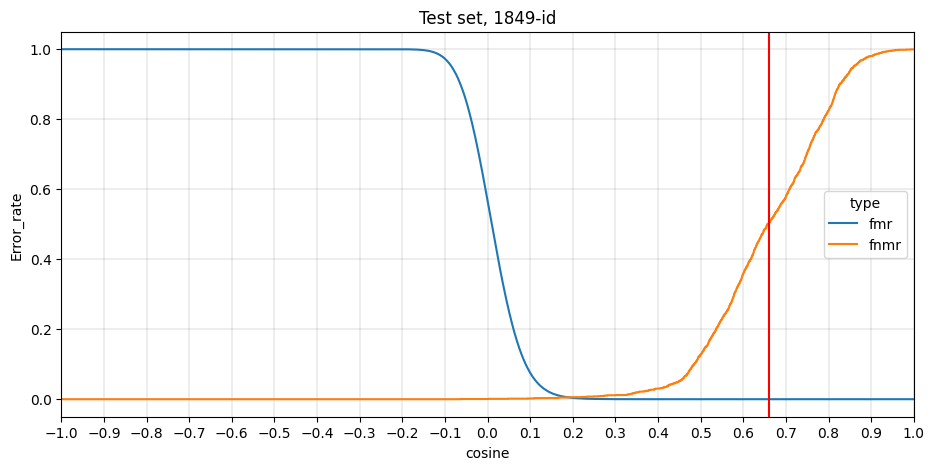
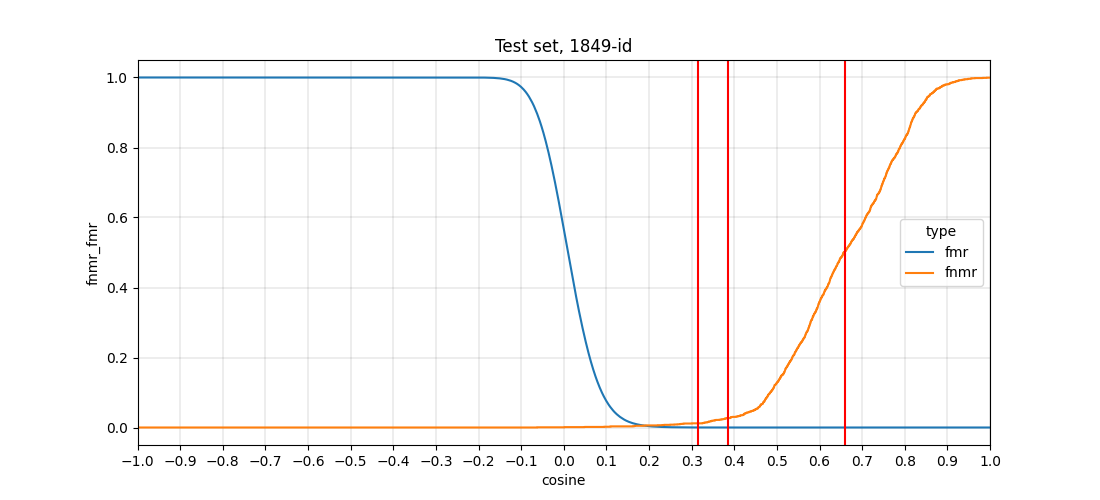
Add fmr456

diff --git a/researches/test_buffalo.py b/researches/test_buffalo.py
@@ -51,7 +51,7 @@ plt.title("Test set, 1849-id")
 plt.grid(color = 'black', linewidth = 0.1)
 
 plt.legend(title='Type verification', loc='upper left', labels=['diff ', 'same '])
-plt.savefig('test/result/cos_sim_dist.png')
+plt.savefig('result/cos_sim_dist.png')
 
 same_sim = np.array(same_pair)
 diff_sim = np.array(diff_pair)
@@ -69,9 +69,19 @@ for t in thresholds:
     fnmr.append(tmp_fnmr)
     fmr.append(tmp_fmr)
 
-closest_key = np.argmin([abs(i - 1e-6) for i in fmr])
+closest_key = np.argmin([abs(i - 1e-4) for i in fmr])
+closest_key1 = np.argmin([abs(i - 1e-5) for i in fmr])
+closest_key2 = np.argmin([abs(i - 1e-6) for i in fmr])
 print(fmr[closest_key])
+print(fmr[closest_key1])
+print(fmr[closest_key2])
 print(fnmr[closest_key])
+print(fnmr[closest_key1])
+print(fnmr[closest_key2])
+print(thresholds[closest_key])
+print(thresholds[closest_key1])
+print(thresholds[closest_key2])
+
 
 fig, ax = plt.subplots(figsize=(11,5))
 
@@ -89,6 +99,8 @@ plt.xticks([(i-10)*0.1 for i in range(21)] )
 plt.title("Test set, 1849-id")
 plt.grid(color = 'black', linewidth = 0.1)
 
-ax.axvline(fnmr[closest_key], color='r')
+ax.axvline(thresholds[closest_key], color='r')
+ax.axvline(thresholds[closest_key1], color='r')
+ax.axvline(thresholds[closest_key2], color='r')
 
-plt.savefig('test/result/fnmr_fmr.png')
+plt.savefig('result/fnmr_fmr.png')
